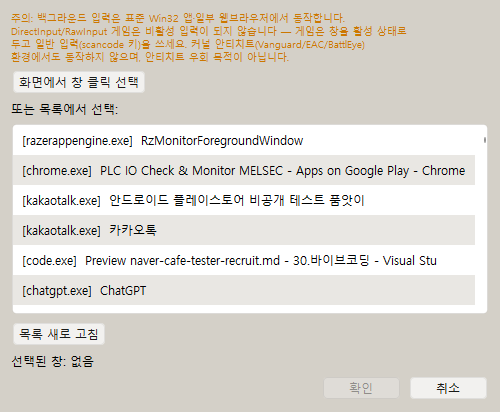
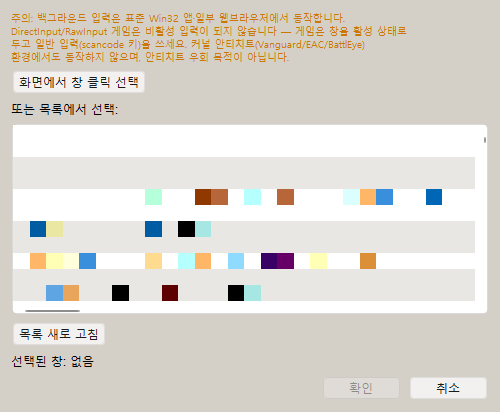
docs: 사용자 매뉴얼 발행 동기

Changed region(s): [[0.03, 0.3204, 0.96, 0.7573]]

diff --git a/manual/0. 목록.md b/manual/0. 목록.md
@@ -16,23 +16,23 @@
 
 ## 매뉴얼 목록
 
-| 번호 | 문서 파일 | 블로그 링크 | 내용 | 기준 버전 |
-| --- | --- | --- | --- | --- |
-| 0 | `0. 목록.md` | [[사용자 매뉴얼] 0. 목록](https://plcman.tistory.com/211) | 매뉴얼 전체 목차 | v1.5.2 |
-| 1 | `1. 기능설명.md` | [[사용자 매뉴얼] 1. 기능설명](https://plcman.tistory.com/214) | Store 설치·자동 업데이트를 포함한 전체 기능 개요 | v1.5.2 |
-| 2 | `2. 기본 편집과 파일관리.md` | [[사용자 매뉴얼] 2. 기본 편집과 파일관리](https://plcman.tistory.com/215) | 프로젝트 생성, Store판 저장 위치, 딜레이, 스텝 편집, 좌표 어레이 | v1.5.2 |
-| 3 | `3. 녹화와 재생.md` | [[사용자 매뉴얼] 3. 녹화와 재생](https://plcman.tistory.com/216) | 녹화, 실행, 반복 실행, 중지, 드래그 녹화 | v1.5.2 |
-| 4 | `4. 조건.md` | [[사용자 매뉴얼] 4. 조건](https://plcman.tistory.com/217) | IF 조건, 그리고/또는/아니면 만약/아니면 분기, 조건 탈출(BREAK) | v1.0.42 |
-| 5 | `5. 반복.md` | [[사용자 매뉴얼] 5. 반복](https://plcman.tistory.com/218) | 반복 실행, 변수 증가, 좌표 어레이 반복, 자동생성·스네이크 모드, 다중 선택 | v1.0.46 |
-| 6 | `6. 포인터.md` | [[사용자 매뉴얼] 6. 포인터](https://plcman.tistory.com/219) | 공통 스텝 묶음 재사용, BREAK 전파 규칙 | v1.0.39 |
-| 7 | `7. 변수와 연산.md` | [[사용자 매뉴얼] 7. 변수와 연산](https://plcman.tistory.com/220) | 변수 설정, 선택형 변수, 텍스트 치환, 계산, 정규식 추출 | v1.5.2 |
-| 8 | `8. 이미지 검색과 캡처.md` | [[사용자 매뉴얼] 8. 이미지 검색과 캡처](https://plcman.tistory.com/221) | 이미지 캡처, 이미지 조건, 여러 이미지 OR 검색, 위치 기준 클릭, 컬러 무시, 무시영역 마스크 | v1.5.2 |
-| 9 | `9. 옵션과 단축키.md` | [[사용자 매뉴얼] 9. 옵션과 단축키](https://plcman.tistory.com/222) | 언어·테마, 단축키, 중복 경고, 항상 위, 로그 폴더·레벨 | v1.5.2 |
-| 10 | `10. 즐겨찾기.md` | [[사용자 매뉴얼] 10. 즐겨찾기](https://plcman.tistory.com/223) | 자주 쓰는 스텝 등록과 재사용 | v1.0.32 |
-| 11 | `11. 정규식 추출.md` | [[사용자 매뉴얼] 11. 정규식 추출](https://plcman.tistory.com/224) | 문자열에서 필요한 값 추출 | v1.0.33 |
-| 12 | `12. 샘플 스텝.md` | [[사용자 매뉴얼] 12. 샘플 스텝](https://plcman.tistory.com/225) | 기본 제공 예제 스텝 삽입 | v1.0.39 |
-| 13 | `13. OCR 텍스트 읽기.md` | [[사용자 매뉴얼] 13. OCR 텍스트 읽기](https://plcman.tistory.com/234) | 화면 글자 인식, 텍스트 포함 조건, 인식 위치 클릭, 숫자 추출 조합 | v1.5.2 |
-| 14 | `14. 백그라운드 입력.md` | [[사용자 매뉴얼] 14. 백그라운드 입력](https://plcman.tistory.com/240) | 비활성 입력·호환 모드, 대상 창 종료 감지, 상대 좌표 이동, 화면 인식 | v1.5.2 |
+| 번호 | 블로그 링크 | 내용 | 기준 버전 |
+| --- | --- | --- | --- |
+| 0 | [[사용자 매뉴얼] 0. 목록](https://plcman.tistory.com/211) | 매뉴얼 전체 목차 | v1.5.2 |
+| 1 | [[사용자 매뉴얼] 1. 기능설명](https://plcman.tistory.com/214) | Store 설치·자동 업데이트를 포함한 전체 기능 개요 | v1.5.2 |
+| 2 | [[사용자 매뉴얼] 2. 기본 편집과 파일관리](https://plcman.tistory.com/215) | 프로젝트 생성, Store판 저장 위치, 딜레이, 스텝 편집, 좌표 어레이 | v1.5.2 |
+| 3 | [[사용자 매뉴얼] 3. 녹화와 재생](https://plcman.tistory.com/216) | 녹화, 실행, 반복 실행, 중지, 드래그 녹화 | v1.5.2 |
+| 4 | [[사용자 매뉴얼] 4. 조건](https://plcman.tistory.com/217) | IF 조건, 그리고/또는/아니면 만약/아니면 분기, 조건 탈출(BREAK) | v1.0.42 |
+| 5 | [[사용자 매뉴얼] 5. 반복](https://plcman.tistory.com/218) | 반복 실행, 변수 증가, 좌표 어레이 반복, 자동생성·스네이크 모드, 다중 선택 | v1.0.46 |
+| 6 | [[사용자 매뉴얼] 6. 포인터](https://plcman.tistory.com/219) | 공통 스텝 묶음 재사용, BREAK 전파 규칙 | v1.0.39 |
+| 7 | [[사용자 매뉴얼] 7. 변수와 연산](https://plcman.tistory.com/220) | 변수 설정, 선택형 변수, 텍스트 치환, 계산, 정규식 추출 | v1.5.2 |
+| 8 | [[사용자 매뉴얼] 8. 이미지 검색과 캡처](https://plcman.tistory.com/221) | 이미지 캡처, 이미지 조건, 여러 이미지 OR 검색, 위치 기준 클릭, 컬러 무시, 무시영역 마스크 | v1.5.2 |
+| 9 | [[사용자 매뉴얼] 9. 옵션과 단축키](https://plcman.tistory.com/222) | 언어·테마, 단축키, 중복 경고, 항상 위, 로그 폴더·레벨 | v1.5.2 |
+| 10 | [[사용자 매뉴얼] 10. 즐겨찾기](https://plcman.tistory.com/223) | 자주 쓰는 스텝 등록과 재사용 | v1.0.32 |
+| 11 | [[사용자 매뉴얼] 11. 정규식 추출](https://plcman.tistory.com/224) | 문자열에서 필요한 값 추출 | v1.0.33 |
+| 12 | [[사용자 매뉴얼] 12. 샘플 스텝](https://plcman.tistory.com/225) | 기본 제공 예제 스텝 삽입 | v1.0.39 |
+| 13 | [[사용자 매뉴얼] 13. OCR 텍스트 읽기](https://plcman.tistory.com/234) | 화면 글자 인식, 텍스트 포함 조건, 인식 위치 클릭, 숫자 추출 조합 | v1.5.2 |
+| 14 | [[사용자 매뉴얼] 14. 백그라운드 입력](https://plcman.tistory.com/240) | 비활성 입력·호환 모드, 대상 창 종료 감지, 상대 좌표 이동, 화면 인식 | v1.5.2 |
 
 ## 문서별 추천 대상
 
